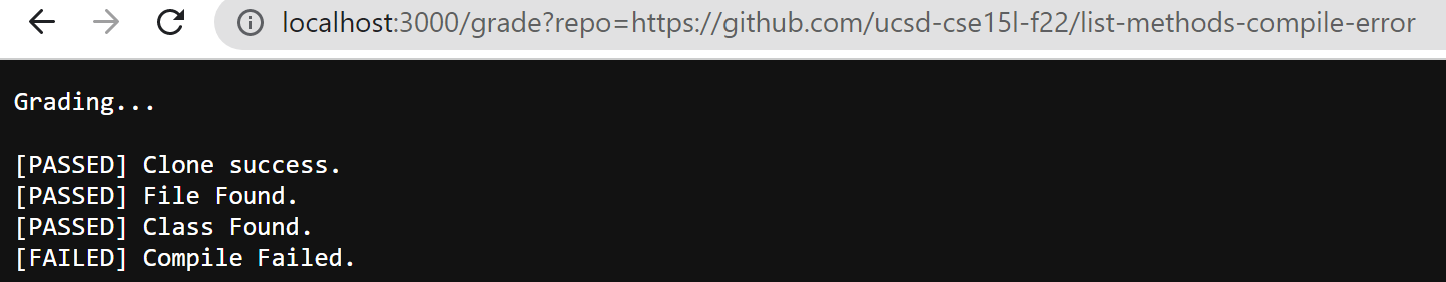
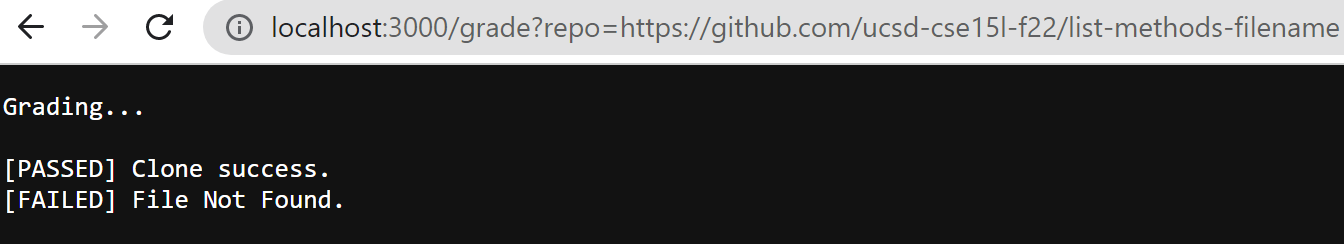
q5

diff --git a/lab-report-5-week-9.md b/lab-report-5-week-9.md
@@ -67,3 +67,48 @@ fi
 ![ScreenShot1](./Lab5_image/1.png)
 ![ScreenShot2](./Lab5_image/2.png)
 ![ScreenShot3](./Lab5_image/3.png)
+
+## Trace of the third screenshot
+```
+echo "Grading..."
+echo ""
+```
+The standard output for these two are the script "Grading..." and an empty line. The return code is zero.
+
+```
+rm -rf student-submission
+```
+There is no output for this line and return code is zero.
+
+```
+git clone $1 student-submission -q
+```
+There is no output for this line successufully running and return code is zero.
+
+```
+if [[ $? -eq 0 ]]
+then
+  echo "[PASSED] Clone success."
+else
+  echo "[FAILED] Clone failed. Please check the URL."
+  exit 1
+fi
+```
+The if statement is true and the then part of this code block gets run and output is "[PASSED] Clone success." The rest of the lines will not run.
+
+```
+cd student-submission
+cp ../TestListExamples.java .
+```
+These two commands have no standard output and the return code is zero.
+
+```
+if [[ -f $FILE_NAME ]]
+then
+  echo "[PASSED] File Found."
+else
+  echo "[FAILED] File Not Found."
+  exit 1
+fi
+```
+The if statement here is false because this repository named the file wrong. Therefore, the then part will not run and the else part will run. The output will be "[FAILED] File Not Found." and the return code is 1.
